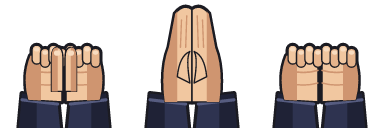
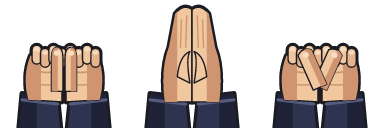
Arsenal sprites: the third hand seal has its crossed thumbs; scene sprites for the Kunai Battery and Chakra Cannon (not the shop's renders, which the card shows beside them) - drawn, not uploaded or wired yet

Changed region(s): [[0.75, 0.375, 0.9062, 0.7188]]

diff --git a/tools/assets/arsenal_svg.py b/tools/assets/arsenal_svg.py
@@ -695,7 +695,7 @@ def render_stars2x():
 def hand_sign(a, cx, cy, s=1.0, sign=0):
     """Two hands forming a seal, seen from the front, wrists at the bottom, sleeves under them:
     0 the clasp (fingers laced over the backs of the hands, thumbs up side by side), 1 palms pressed
-    together, 2 one flat hand laid across a fist."""
+    together, 2 the clasp with the thumbs crossed."""
     old, oldk = a.tf, a.k
     a.tf = " ".join(x for x in (old, f"translate({f(cx)} {f(cy)}) scale({f(s)})") if x)
     a.k = oldk * s
@@ -724,6 +724,11 @@ def hand_sign(a, cx, cy, s=1.0, sign=0):
                            f"L{dx * 12},28 Z"), SKIN)
             a.shade(th, R(dx * 6.5 if dx > 0 else -12, -20, 6, 50), SKIN_D)
             a.flat(R(dx * 6.5 - 3, -11, 6, 5, 2), "#f8dcc0")
+        if sign == 2:
+            for dx in (1, -1):
+                th = a.solid(P("M-7,-12 Q0,-18 7,-12 L7,24 L-7,24 Z", rot(0, 24, dx * 24)), SKIN)
+                a.shade(th, R(1, -20, 8, 50, 0, rot(0, 24, dx * 24)), SKIN_D)
+                a.flat(R(-3, -12, 6, 5, 2, rot(0, 24, dx * 24)), "#f8dcc0")
     elif sign == 1:
         # palms pressed together, fingers up, splayed a little at the tips
         for dx in (-1, 1):
@@ -733,21 +738,6 @@ def hand_sign(a, cx, cy, s=1.0, sign=0):
                 x0 = dx * (5 + k * 5)
                 a.line(f"M{f(x0)},{f(-44 + k * 4)} L{f(x0 + dx * 1)},{f(-14)}", SKIN_D, 1.3)
             a.solid(P(f"M{dx * 2},20 Q{dx * 6},-4 {dx * 2},-10 Q{dx * 12},-6 {dx * 14},14 Z"), SKIN)
-        if sign == 2:
-            for dx in (1, -1):
-                th = a.solid(P("M-7,-12 Q0,-18 7,-12 L7,24 L-7,24 Z", rot(0, 24, dx * 24)), SKIN)
-                a.shade(th, R(1, -20, 8, 50, 0, rot(0, 24, dx * 24)), SKIN_D)
-                a.flat(R(-3, -12, 6, 5, 2, rot(0, 24, dx * 24)), "#f8dcc0")
-    else:
-        # a fist, a flat hand laid across its top
-        fi = a.solid(P("M-26,36 L-30,4 Q-28,-10 -12,-10 L14,-10 Q30,-10 30,4 L26,36 Z"), SKIN)
-        a.shade(fi, R(8, -20, 40, 70), SKIN_D)
-        for k in range(3):
-            a.line(f"M-26,{4 + k * 9} Q-6,{7 + k * 9} 24,{4 + k * 9}", SKIN_D, 1.4)
-        fl = a.solid(P("M-40,-12 L30,-24 Q40,-24 40,-16 L38,-6 Q36,0 26,0 L-38,-2 Q-46,-6 -40,-12 Z"), SKIN)
-        a.shade(fl, R(-50, -8, 100, 20), SKIN_D)
-        for k in range(3):
-            a.line(f"M{-4 + k * 10},{-18 - k * 1.5} L{30},{-20 - k * 0.5}", SKIN_D, 1.2)
     a.tf, a.k = old, oldk
 
 
@@ -1207,6 +1197,51 @@ def fx_bloom(fr, n=8):
     return a
 
 
+def fx_battery():
+    """The Kunai Battery in the scene (not the shop's render, which the card shows beside it): a low
+    log platform, an A-frame, three kunai racked level and aimed right."""
+    a = Art(200, 140, ow=5, iw=1.5)
+    for x0, x1 in ((40, 84), (150, 112)):
+        p = a.solid(PG([(x0 - 7, 122), (x0 + 7, 122), (x1 + 5, 56), (x1 - 5, 56)]), WOOD)
+        a.shade(p, PG([(x0, 122), (x0 + 18, 122), (x1 + 18, 50), (x1, 50)]), WOOD_D)
+    for i in range(3):
+        a.stack()
+        kunai(a, 30 + i * 12, 52 + i * 21, 124, -12)
+    a.stack()
+    beam = a.solid(R(46, 96, 108, 12, 3), WOOD_L)
+    a.shade(beam, R(44, 103, 112, 8), WOOD)
+    for i, x in enumerate((50, 100, 150)):
+        lg = a.solid(R(x - 30, 116, 60, 18, 8), WOOD)
+        a.shade(lg, R(x - 34, 126, 68, 12), WOOD_D)
+        a.solid(E(x + 27, 125, 6, 9), WOOD_L)
+    return a
+
+
+def fx_cannon():
+    """The Chakra Cannon in the scene: its barrel near level, aimed right (the beam crosses the scene),
+    no orb (the preview grows one at its mouth)."""
+    a = Art(200, 136, ow=5, iw=1.5)
+    c = a.solid(PG([(20, 118), (150, 118), (132, 84), (40, 84)]), WOOD)
+    a.shade(c, R(10, 106, 160, 20), WOOD_D)
+    for x in (52, 120):
+        a.solid(C(x, 118, 15), WOOD_L)
+        a.flat(C(x, 118, 5), WOOD_D)
+        for k in range(4):
+            t = k / 4 * math.pi
+            a.line(f"M{f(x + math.cos(t) * 13)},{f(118 + math.sin(t) * 13)} L{f(x - math.cos(t) * 13)},"
+                   f"{f(118 - math.sin(t) * 13)}", WOOD_D, 2)
+    a.stack()
+    tf = rot(80, 72, -8)
+    bar = a.solid(P("M40,52 L182,60 L182,84 L40,92 Q22,72 40,52 Z", tf), STONE)
+    a.shade(bar, R(20, 74, 180, 30, 0, tf), STONE_D)
+    for x in (80, 120, 172):
+        a.solid(R(x - 5, 52 + (x - 40) * 0.056, 10, 40 - (x - 40) * 0.11, 2, tf), GOLD, ow=4)
+    for x, r in ((100, 26), (146, 22)):
+        a.raw_over(f'<ellipse cx="{x}" cy="72" rx="6" ry="{r}" transform="{tf}" fill="none" stroke="{BLUE_L}" '
+                   f'stroke-width="3.5" opacity="0.9"/>')
+    return a
+
+
 FX = {
     "tag": fx_tag,
     "kunai": fx_kunai,
@@ -1219,6 +1254,8 @@ FX = {
     "shrine": fx_shrine,
     "roost": fx_roost,
     "village": fx_village,
+    "battery": fx_battery,
+    "cannon": fx_cannon,
 }
 # flipbooks: key -> (cell px, frames, cols, the frame's Art)
 FX_FLIP = {
@@ -1228,4 +1265,5 @@ FX_FLIP = {
 }
 # singles' size in pixels (long side)
 FX_PX = {"tag": 96, "kunai": 96, "scroll": 96, "poof": 128, "ninja": 96, "ninja_run": 96, "sealring": 128,
-         "orb": 96, "shrine": 128, "roost": 128, "village": 128}
+         "orb": 96, "shrine": 128, "roost": 128, "village": 128, "battery": 128,
+         "cannon": 128}

diff --git a/tools/assets/arsenal_style_sheets.py b/tools/assets/arsenal_style_sheets.py
@@ -71,8 +71,8 @@ def sprites_sheet():
     H = 228
     sizes = {"tag": ("w", 0.3), "kunai": ("w", 0.28), "scroll": ("w", 0.4), "poof": 0.42, "ninja": 0.3,
              "ninja_run": 0.3, "sealring": 0.5, "orb": 0.3, "shrine": 0.34, "roost": 0.36, "village": 0.36,
-             "hawk": 0.36, "hands": 0.3, "bloom": 0.92}
-    W = 1800
+             "hawk": 0.36, "hands": 0.3, "bloom": 0.92, "battery": 0.34, "cannon": 0.3}
+    W = 2100
     sh = Image.new("RGBA", (W, 2 * (H + 30) + 50), PANEL)
     d = ImageDraw.Draw(sh)
     d.text((12, 8), "Arsenal preview sprites at their size in the preview (228 px tall): A vs B", font=FONT,
